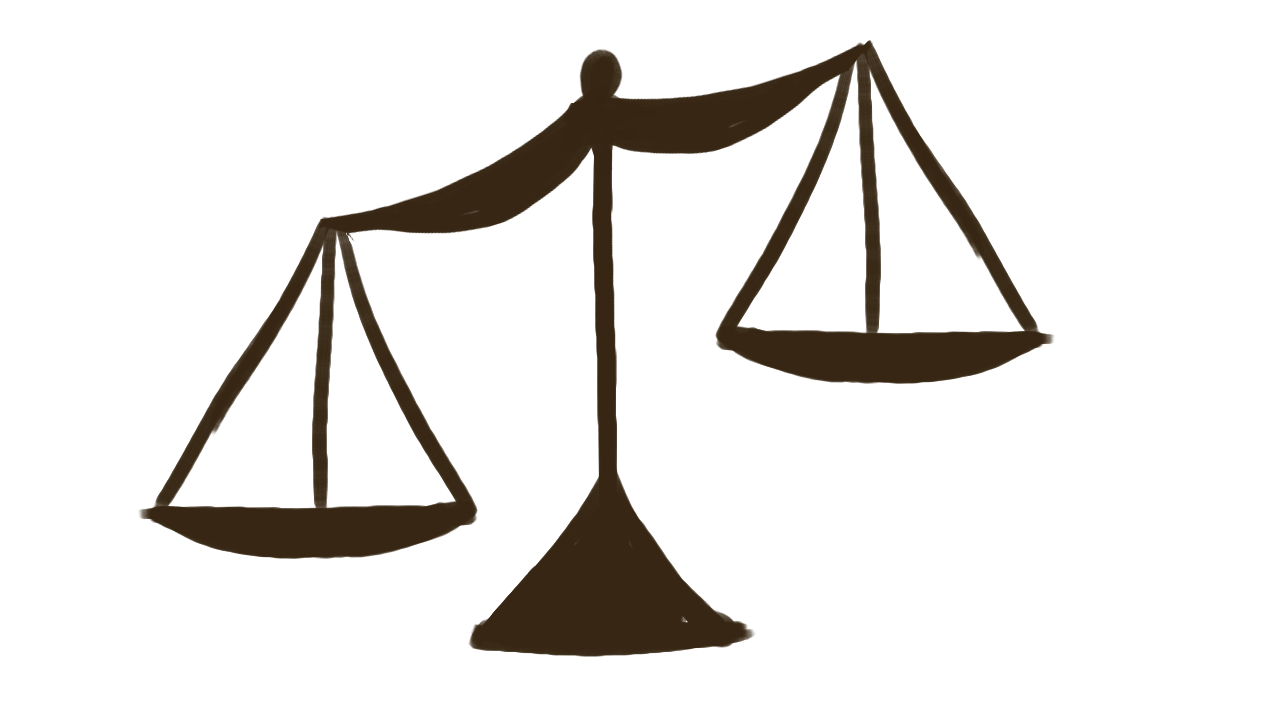
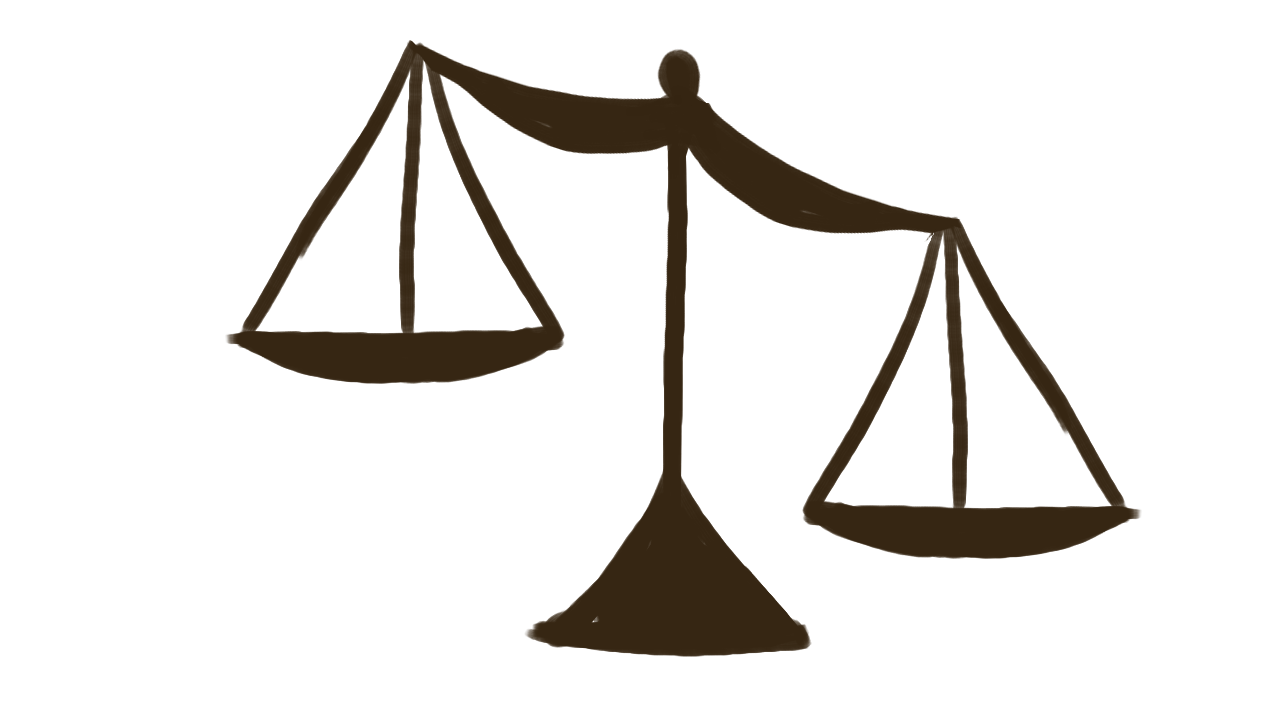
Puzzle 4 done

Changed region(s): [[0.0938, 0.0611, 0.9062, 0.9167]]

diff --git a/src/scenes/Lookout/Scales.js b/src/scenes/Lookout/Scales.js
@@ -18,7 +18,7 @@ class Scales extends Phaser.Scene {
 
         /////////////////////////////////////////////////////////////////////////////////////////////////////////
         // sfx
-        this.itemTake = this.sound.add('itemtake', {volume: 0.5});
+        //this.itemTake = this.sound.add('itemtake', {volume: 0.5});
 
         /////////////////////////////////////////////////////////////////////////////////////////////////////////
         // define keys
@@ -31,7 +31,7 @@ class Scales extends Phaser.Scene {
         this.even.setDisplaySize(1280, 720);
         this.even.setVisible(true);
         // scales uneven
-        this.uneven = this.add.image(640, 350, 'uneven');
+        this.uneven = this.add.image(580, 340, 'uneven');
         this.uneven.setDisplaySize(1280, 720);
         this.uneven.setVisible(false);
         // scales text
@@ -115,7 +115,9 @@ class Scales extends Phaser.Scene {
         /////////////////////////////////////////////////////////////////////////////////////////////////////////
         // god forsaken variables
         this.textTimer = 0;
-        this.rocks = [this.red, this.yellow, this.orange, this.green, this.cyan, this.blue, this.purple]
+        this.rocks = [this.red, this.yellow, this.orange, this.green, this.cyan, this.blue, this.purple];
+        this.correct = ["right", "right", "right", "left", "right", "right", "right"];
+        this.scaleStatus = false;
         this.status = [];
 
         /////////////////////////////////////////////////////////////////////////////////////////////////////////
@@ -175,10 +177,16 @@ class Scales extends Phaser.Scene {
                 for (var i = 0; i < 7; i++) {
                     this.status.push(this.checkPosition(this.rocks[i]));
                 }
-                console.log(this.status)
-                balanced = 1;
-                this.uneven.interText.setVisible(true); 
                 
+                console.log(this.status)
+                this.scaleStatus = this.checkCorrect(this.status, this.correct);
+
+                if(this.scaleStatus == true){
+                    balanced = 1;
+                    this.uneven.interText.setVisible(true); 
+                } else {
+                    this.rockReset();
+                }
             }
         });
 
@@ -218,6 +226,23 @@ class Scales extends Phaser.Scene {
         };
     }
 
+    rockReset(){
+        // red
+        this.red.setPosition(200, 665);
+        // orange
+        this.orange.setPosition(335, 665);
+        // yellow
+        this.yellow.setPosition(465, 665);
+        // green
+        this.green.setPosition(595, 665);
+        // cyan
+        this.cyan.setPosition(725, 665);
+        // blue
+        this.blue.setPosition(860, 665);
+        // purple
+        this.purple.setPosition(1000, 665);
+    }
+
     checkPosition(rock){
         this.posY = rock.y;
         this.posX = rock.x;
@@ -234,5 +259,14 @@ class Scales extends Phaser.Scene {
             }
         }
         return "inactive";
+    }
+
+    checkCorrect(arr1, arr2){
+        for (var i = 0; i < 7; i++) {
+            if(arr1[i] != arr2[i]){
+                return false;
+            }
+        }
+        return true;
     }
 }

diff --git a/src/scenes/Lookout/LookoutWest.js b/src/scenes/Lookout/LookoutWest.js
@@ -85,19 +85,12 @@ class LookoutWest extends Phaser.Scene {
         this.outline.interText.setVisible(false);
 
         // ladder image
-        this.ladderIm = this.add.image(640, 360, 'ladder');
-        this.ladderIm.setDisplaySize(1280, 720);
-        this.ladderIm.setVisible(false);
-        // ladder hitbox
-        this.ladder = this.add.sprite(980, 360, 'hitbox');
-        this.ladder.setDisplaySize(240, 700);
-        this.ladder.setInteractive({
-            useHandCursor: true
-        });
+        this.ladder = this.add.image(640, 360, 'ladder');
+        this.ladder.setDisplaySize(1280, 720);
+        this.ladder.setVisible(false);
         this.ladder.interText = this.add.text(350, 400, '   Press space to\nenter the light room');
         this.ladder.interText.setFontSize(50);
         this.ladder.interText.setVisible(false);
-        this.ladder.setVisible(false);
 
         // window light
         this.light = this.add.image(640, 360, 'westLight');
@@ -124,8 +117,11 @@ class LookoutWest extends Phaser.Scene {
         this.citrineHot = this.add.sprite(660, 659, 'citrineHot');
         this.citrineHot.setDisplaySize(50, 50);
         this.citrineHot.setVisible(false);
-        
 
+        this.rockHot = this.add.sprite(660, 659, 'rockHot');
+        this.rockHot.setDisplaySize(50, 50);
+        this.rockHot.setVisible(false);
+        
         /////////////////////////////////////////////////////////////////////////////////////////////////////////
         // god forsaken variables
         this.hotOn = true;
@@ -180,7 +176,6 @@ class LookoutWest extends Phaser.Scene {
         });
 
         if(balanced == 1){
-            this.ladderIm.setVisible(true);
             this.ladder.setVisible(true);
             this.ladder.interText.setVisible(true);
 
@@ -246,8 +241,12 @@ class LookoutWest extends Phaser.Scene {
                 this.ragHot.setVisible(true);
             }
 
-            if (citrine == 1){
+            if (citrine == 1 && weights == 0){
                 this.citrineHot.setVisible(true);
+            }
+            else if (weights == 1){
+                this.citrineHot.setVisible(false);
+                this.rockHot.setVisible(true);
             }
 
             if (rope == 1){

diff --git a/src/scenes/Lookout/LookoutNorth.js b/src/scenes/Lookout/LookoutNorth.js
@@ -318,6 +318,10 @@ class LookoutNorth extends Phaser.Scene {
         this.citrineHot.setDisplaySize(50, 50);
         this.citrineHot.setVisible(false);
 
+        this.rockHot = this.add.sprite(660, 659, 'rockHot');
+        this.rockHot.setDisplaySize(50, 50);
+        this.rockHot.setVisible(false);
+
         /////////////////////////////////////////////////////////////////////////////////////////////////////////
         //rocks
         this.purple = this.add.image(this.setX, this.setY, 'purple');
@@ -853,8 +857,12 @@ class LookoutNorth extends Phaser.Scene {
                 this.ragHot.setVisible(true);
             }
 
-            if (citrine == 1){
+            if (citrine == 1 && weights == 0){
                 this.citrineHot.setVisible(true);
+            }
+            else if (weights == 1){
+                this.citrineHot.setVisible(false);
+                this.rockHot.setVisible(true);
             }
 
             if (rope == 1){

diff --git a/src/scenes/Lookout/LookoutSouth.js b/src/scenes/Lookout/LookoutSouth.js
@@ -110,6 +110,10 @@ class LookoutSouth extends Phaser.Scene {
         this.citrineHot.setDisplaySize(50, 50);
         this.citrineHot.setVisible(false);
 
+        this.rockHot = this.add.sprite(660, 659, 'rockHot');
+        this.rockHot.setDisplaySize(50, 50);
+        this.rockHot.setVisible(false);
+        
         /////////////////////////////////////////////////////////////////////////////////////////////////////////
         // god forsaken variables
         this.hotOn = true;
@@ -196,8 +200,12 @@ class LookoutSouth extends Phaser.Scene {
                 this.ragHot.setVisible(true);
             }
 
-            if (citrine == 1){
+            if (citrine == 1 && weights == 0){
                 this.citrineHot.setVisible(true);
+            }
+            else if (weights == 1){
+                this.citrineHot.setVisible(false);
+                this.rockHot.setVisible(true);
             }
 
             if (rope == 1){

diff --git a/src/scenes/Lookout/LookoutEast.js b/src/scenes/Lookout/LookoutEast.js
@@ -92,6 +92,10 @@ class LookoutEast extends Phaser.Scene {
         this.citrineHot.setDisplaySize(50, 50);
         this.citrineHot.setVisible(false);
 
+        this.rockHot = this.add.sprite(660, 659, 'rockHot');
+        this.rockHot.setDisplaySize(50, 50);
+        this.rockHot.setVisible(false);
+        
         /////////////////////////////////////////////////////////////////////////////////////////////////////////
         // god forsaken variables
         this.hotOn = true;
@@ -189,8 +193,12 @@ class LookoutEast extends Phaser.Scene {
                 this.ragHot.setVisible(true);
             }
 
-            if (citrine == 1){
+            if (citrine == 1 && weights == 0){
                 this.citrineHot.setVisible(true);
+            }
+            else if (weights == 1){
+                this.citrineHot.setVisible(false);
+                this.rockHot.setVisible(true);
             }
 
             if (rope == 1){

diff --git a/src/scenes/Spreads/Spread4.js b/src/scenes/Spreads/Spread4.js
@@ -15,6 +15,7 @@ class Spread4 extends Phaser.Scene {
         this.load.image('ragHot', './assets/puzzle4/items/rag.png');
         this.load.image('ropeHot', './assets/puzzle4/items/rope.png');
         this.load.image('citrineHot', './assets/puzzle4/items/citrine.png');
+        this.load.image('rockHot', './assets/puzzle4/items/rockHot.png');
         
         // audio
         this.load.audio('lookout_music', './assets/sfx/Musicbox.wav');

diff --git a/src/scenes/Instruction.js b/src/scenes/Instruction.js
@@ -32,7 +32,7 @@ class Instruction extends Phaser.Scene {
             this.scene.start("mainNorth"); 
 		});
         this.input.keyboard.on('keydown-V', () => {
-            this.scene.start("lookoutNorth"); 
+            this.scene.start("lookoutScales"); 
 		});
         this.input.keyboard.on('keydown-B', () => {
             this.scene.start("ritualNorth"); 
